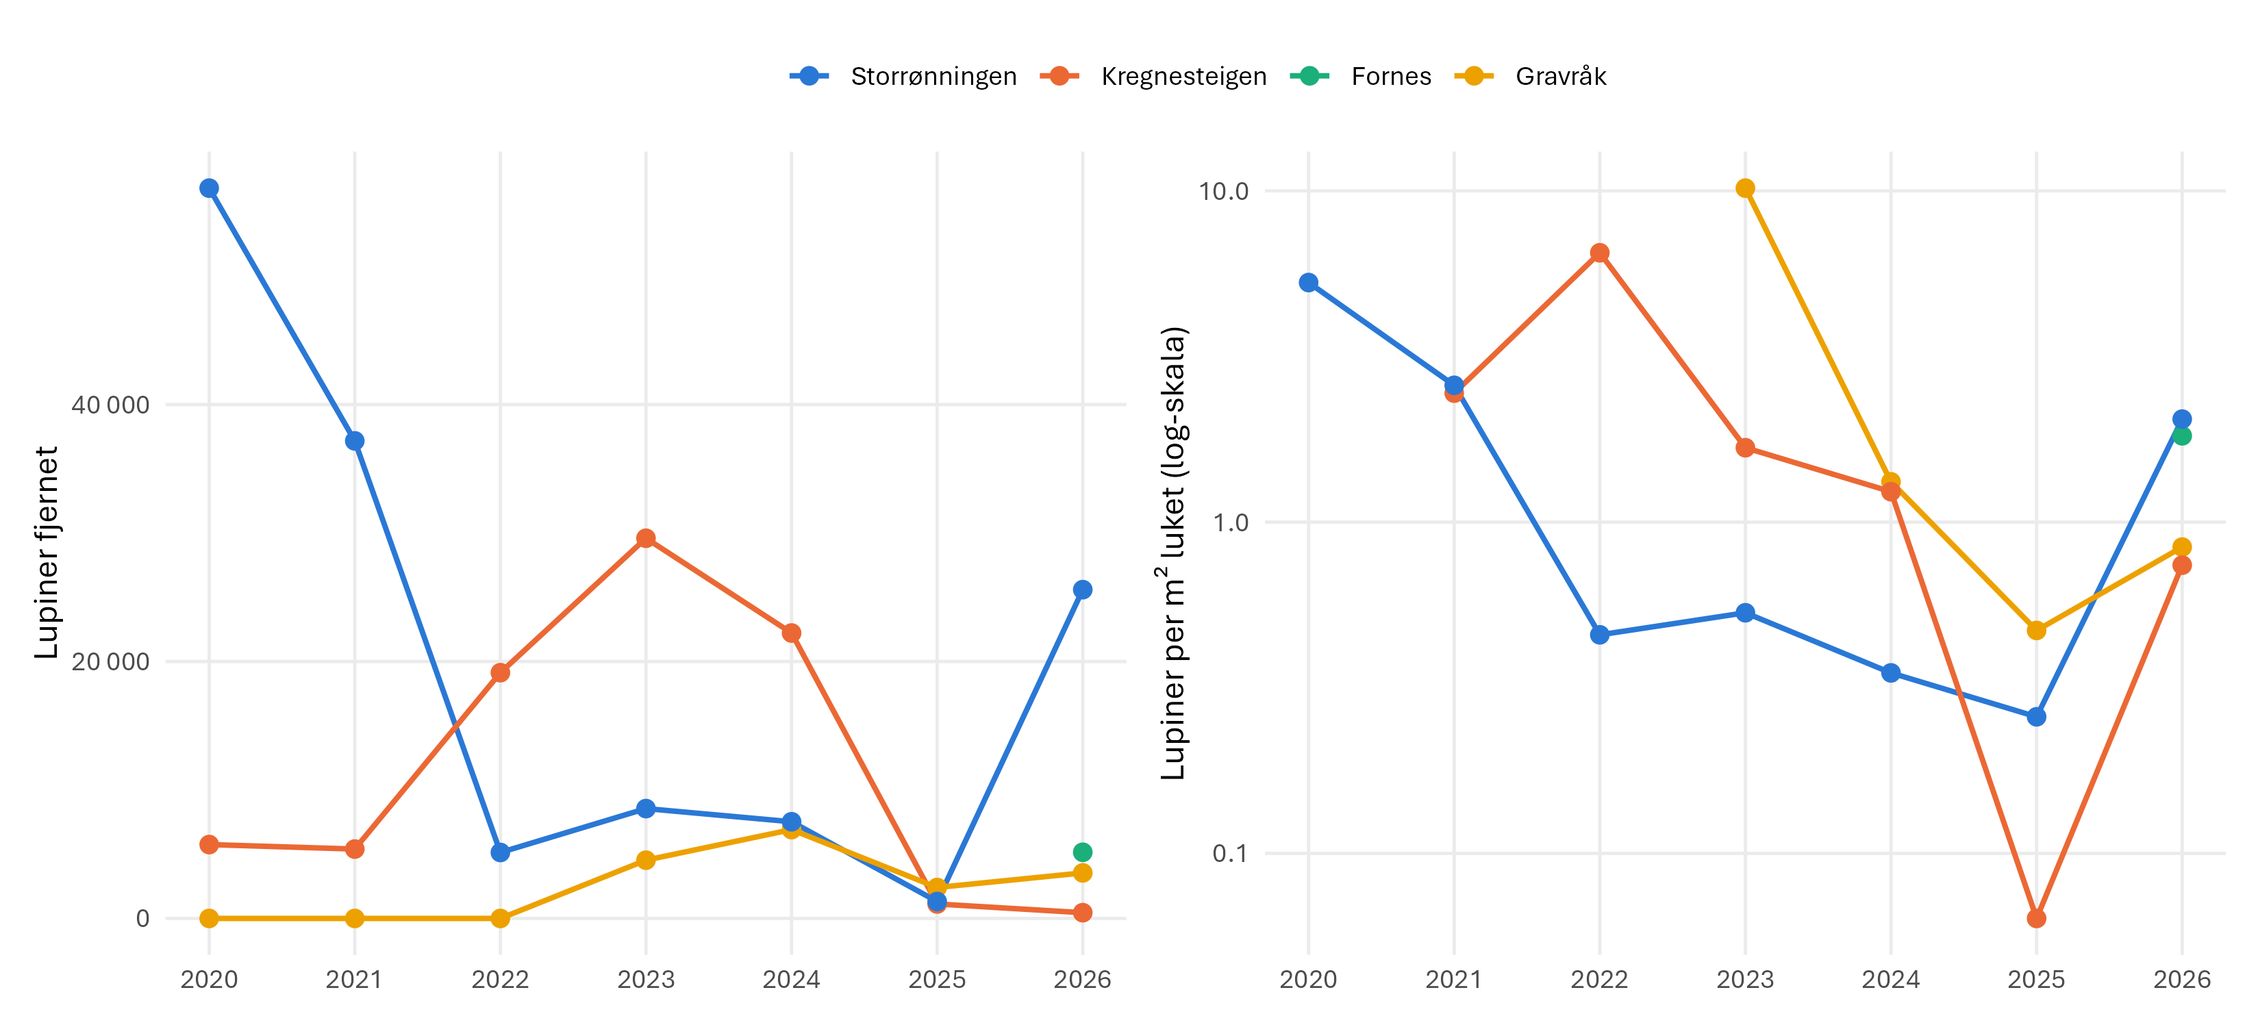
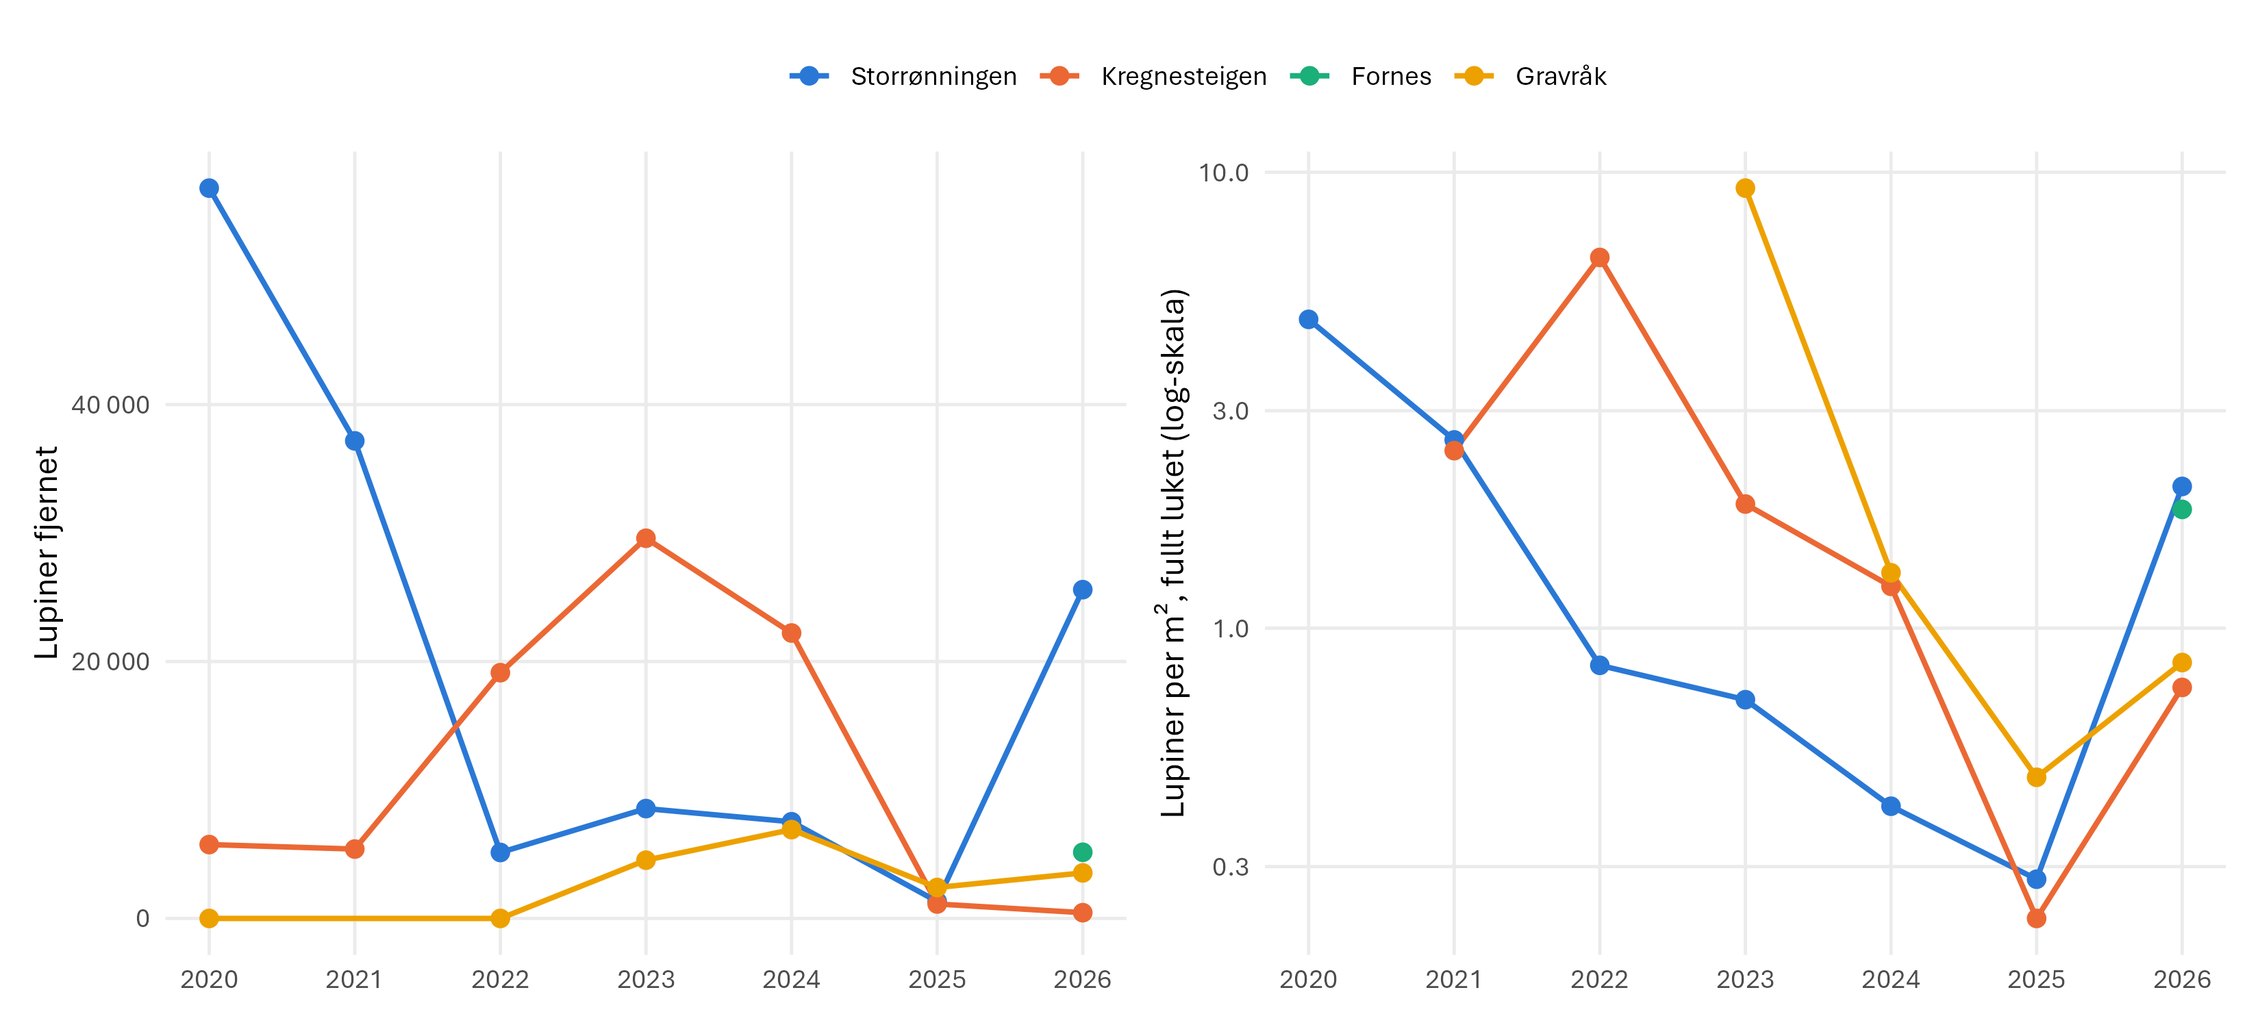
Elvesandjeger: lupin analysis based on fully cleared polygons only
MidNat confirmed that the lupin counts are plants removed, and that partial
clearing removes only the larger plants, so partly cleared polygons do not
show how many lupins were present. Section 5, 6.2 (table, figure, text), the
per-site lupin density in 3.2, 7.1 and 7.2 updated accordingly. Gravråk 2021
lupin count treated as missing. Seed bank paragraph and clearing-work
sentence added to 7.1; 2026 change to full-or-no clearing noted in 3.2.

diff --git a/Elvesandjeger/README.md b/Elvesandjeger/README.md
@@ -1,6 +1,6 @@
 # Elvesandjeger (*Cicindela maritima*)
 Megan Nowell
-2026-11-06
+2026-11-10
 
 - [Oppsummering](#oppsummering)
 - [English summary](#english-summary)
@@ -356,12 +356,16 @@ og alt plantemateriale samles i tette sekker og leveres til godkjent
 mottak for fremmede arter (Roos mfl. 2024; Solberg mfl. 2025). Ved
 delvis luking fjernes bare de større lupinene som kan sette frø i løpet
 av sesongen, og flere steder fjernes blomsterstander og frøbelger for å
-hindre frøspredning (Solberg mfl. 2025). Hver lokalitet er delt inn i
-kartfestede lukepolygoner, og MidNat registrerer for hvert polygon og år
-om det er luket (Ja), delvis luket (Delvis) eller ikke luket (Nei), hvor
-mange lupiner som ble fjernet, og når og hvordan det ble luket (Roos
-mfl. 2024). Follstadøya blir også luket, men har ikke overvåking av
-elvesandjeger og er ikke med her.
+hindre frøspredning (Solberg mfl. 2025). Hensikten med delvis luking var
+å gi polygonene et år med mindre forstyrrelse for elvesandjeger,
+samtidig som lupinene ikke fikk spre frø. Fra 2026 lukes polygonene
+enten fullt eller ikke i det hele tatt, for å begrense forstyrrelsen av
+larvene.Hver lokalitet er delt inn i kartfestede lukepolygoner, og
+MidNat registrerer for hvert polygon og år om det er luket (Ja), delvis
+luket (Delvis) eller ikke luket (Nei), hvor mange lupiner som ble
+fjernet, og når og hvordan det ble luket (Roos mfl. 2024). Follstadøya
+blir også luket, men har ikke overvåking av elvesandjeger og er ikke med
+her.
 
 <a href="#fig-foto-luking" class="quarto-xref">Figur 4</a> viser
 eksempler på lukepolygoner før og etter luking i 2026.
@@ -434,34 +438,38 @@ luket). Ulik skala på y-aksen.
 
 ![](img/fig-luking-lupiner-1.png)
 
-Figur 6: Antall lupiner fjernet (venstre) og lupiner fjernet per m²
-luket areal (høyre), per lokalitet og år. Fornes har lukepolygoner først
-fra 2026; Gravråk 2021 mangler antall.
+Figur 6: Antall lupiner fjernet (venstre) og lupintetthet i polygonene
+som ble fullt luket (høyre), per lokalitet og år. Ved delvis luking
+telles bare de større plantene som fjernes, så disse polygonene er ikke
+med i tettheten. Fornes har lukepolygoner først fra 2026; Gravråk 2021
+mangler antall.
 
 </div>
 
 <div id="tbl-luking">
 
 Tabell 2: Lupinluking per lokalitet og år: areal luket (m², Ja +
-Delvis), antall lupiner fjernet og lupiner per m² luket. – = ikke
-registrert. Kilde: lukedata fra Midtnorsk Naturundersøkelse AS.
+Delvis), antall lupiner fjernet og lupintetthet (lupiner per m²) i
+polygonene som ble fullt luket. – = ikke registrert eller ingen
+polygoner fullt luket. Kilde: lukedata fra Midtnorsk Naturundersøkelse
+AS.
 
 <div class="cell-output-display">
 
-| Lokalitet     | Mål              |   2020 |   2021 |   2022 |   2023 |   2024 |   2025 |   2026 |
-|:--------------|:-----------------|-------:|-------:|-------:|-------:|-------:|-------:|-------:|
-| Storrønningen | Areal luket (m²) | 10 751 | 14 363 | 11 238 | 16 056 | 21 465 |  5 101 | 12 507 |
-| Storrønningen | Lupiner fjernet  | 56 846 | 37 172 |  5 134 |  8 551 |  7 526 |  1 318 | 25 592 |
-| Storrønningen | Lupiner per m²   |   5,29 |   2,59 |   0,46 |   0,53 |   0,35 |   0,26 |   2,05 |
-| Kregnesteigen | Areal luket (m²) |      0 |  2 203 |  2 941 | 17 643 | 17 981 | 17 684 |    604 |
-| Kregnesteigen | Lupiner fjernet  |  5 750 |  5 400 | 19 130 | 29 593 | 22 217 |  1 125 |    448 |
-| Kregnesteigen | Lupiner per m²   |      – |   2,45 |   6,50 |   1,68 |   1,24 |   0,06 |   0,74 |
-| Fornes        | Areal luket (m²) |      0 |      0 |      0 |      0 |      0 |      0 |  2 827 |
-| Fornes        | Lupiner fjernet  |      – |      – |      – |      – |      – |      – |  5 150 |
-| Fornes        | Lupiner per m²   |      – |      – |      – |      – |      – |      – |   1,82 |
-| Gravråk       | Areal luket (m²) |      0 |  2 768 |      0 |    445 |  5 226 |  5 115 |  4 216 |
-| Gravråk       | Lupiner fjernet  |      0 |      0 |      0 |  4 535 |  6 915 |  2 409 |  3 545 |
-| Gravråk       | Lupiner per m²   |      – |      – |      – |  10,19 |   1,32 |   0,47 |   0,84 |
+| Lokalitet | Mål | 2020 | 2021 | 2022 | 2023 | 2024 | 2025 | 2026 |
+|:---|:---|---:|---:|---:|---:|---:|---:|---:|
+| Storrønningen | Areal luket (m²) | 10 751 | 14 363 | 11 238 | 16 056 | 21 465 | 5 101 | 12 507 |
+| Storrønningen | Lupiner fjernet | 56 846 | 37 172 | 5 134 | 8 551 | 7 526 | 1 318 | 25 592 |
+| Storrønningen | Lupiner per m², fullt luket | 4,76 | 2,59 | 0,83 | 0,70 | 0,41 | 0,28 | 2,05 |
+| Kregnesteigen | Areal luket (m²) | 0 | 2 203 | 2 941 | 17 643 | 17 981 | 17 684 | 604 |
+| Kregnesteigen | Lupiner fjernet | 5 750 | 5 400 | 19 130 | 29 593 | 22 217 | 1 125 | 448 |
+| Kregnesteigen | Lupiner per m², fullt luket | – | 2,45 | 6,50 | 1,87 | 1,24 | 0,23 | 0,74 |
+| Fornes | Areal luket (m²) | 0 | 0 | 0 | 0 | 0 | 0 | 2 827 |
+| Fornes | Lupiner fjernet | – | – | – | – | – | – | 5 150 |
+| Fornes | Lupiner per m², fullt luket | – | – | – | – | – | – | 1,82 |
+| Gravråk | Areal luket (m²) | 0 | 2 768 | 0 | 445 | 5 226 | 5 115 | 4 216 |
+| Gravråk | Lupiner fjernet | 0 | – | 0 | 4 535 | 6 915 | 2 409 | 3 545 |
+| Gravråk | Lupiner per m², fullt luket | – | – | – | 9,23 | 1,32 | 0,47 | 0,84 |
 
 </div>
 
@@ -552,13 +560,17 @@ undersøkt, er ikke helt likt alle år
 og tidsseriene vises derfor per besøksmåned.
 
 **Effekt av luking på lupin.** Dataene fra Midtnorsk Naturundersøkelse
-inneholder antall lupiner i hvert lukepolygon, registrert samtidig med
-lukingen, og om polygonet ble fullt luket, delvis luket eller ikke
-luket. I vår analyse regner vi om antallet til lupintetthet (lupiner per
-m² av polygonarealet), slik at polygoner av ulik størrelse kan
-sammenlignes, og deler polygonene inn etter hvordan de ble luket årene
-før: fullt luket året før, delvis luket året før, ett år uten luking, to
-år eller mer uten luking, eller luket for første gang. Forskjellene i
+inneholder for hvert lukepolygon og år om polygonet ble fullt luket,
+delvis luket eller ikke luket, og antallet lupiner som ble fjernet. Ved
+full luking fjernes alle lupinene, så antallet viser hvor mange lupiner
+som sto i polygonet. Ved delvis luking telles bare de større plantene
+som ble fjernet, og antallet sier derfor ikke hvor mange lupiner som sto
+der. Analysen bruker derfor bare polygoner som ble fullt luket i det
+aktuelle året. Antallet regnes om til lupintetthet (lupiner per m² av
+polygonarealet), slik at polygoner av ulik størrelse kan sammenlignes,
+og polygonene deles inn etter hvordan de ble luket årene før: fullt
+luket året før, delvis luket året før, ett år uten luking, to år eller
+mer uten luking, eller luket for første gang. Forskjellene i
 lupintetthet mellom disse gruppene testes med en negativ binomial GLMM
 (`glmmTMB`, nbinom2) på antall lupiner, med polygonarealet som offset,
 lukehistorikk, år og lokalitet som faste effekter og et tilfeldig
@@ -711,36 +723,41 @@ juni, juli og august. Tallene over søylene er totalt antall larver.
 
 ### 6.2 Effekt av luking på lupin
 
-**Lukehistorikk.** Lupintettheten i et polygon avhenger av hvordan det
-er luket årene før
+**Lukehistorikk.** Lupintettheten i polygonene som ble fullt luket,
+avhenger av hvordan de var luket årene før
 (<a href="#tbl-lupin-luking" class="quarto-xref">Tabell 4</a>,
 <a href="#fig-lupin-luking" class="quarto-xref">Figur 10</a>). I
-polygoner som ble fullt luket året før, var det 0,8 lupiner per m².
-Polygoner som sto ett år uten luking, hadde 2,1 lupiner per m² (RR 2,51
-mot fullt luket året før, p = 0,016), omtrent like mange som polygoner
-som ble luket for første gang (2,0 per m², RR 2,40, p = 0,003).
-Polygoner som hadde stått to år eller mer uten luking, hadde 7,8 lupiner
-per m² (RR 9,37, p \< 0,001). Allerede etter ett år uten luking er
-lupintettheten altså tilbake på nivået fra før lukingen startet, og
-etter to år er den mye høyere.
+polygoner som også ble fullt luket året før, var det 1,0 lupin per m².
+Etter to år eller mer uten luking hadde tettheten økt kraftig, til 5,9
+lupiner per m² (RR 5,81, p \< 0,001), og polygoner som ble luket for
+første gang, hadde 2,5 lupiner per m² (RR 2,43, p \< 0,001). Polygoner
+som sto ett år uten luking, hadde 0,7 lupin per m², og var ikke
+signifikant forskjellige fra polygoner som ble fullt luket året før (RR
+0,68, p = 0,29). Nesten alle disse (30 av 33) var fullt luket året før
+pausen. Ett år uten luking etter full luking ga altså ikke flere
+lupiner, men etter to år uten luking var tettheten nesten seks ganger så
+høy.
 
-**Delvis luking.** Polygoner som ble delvis luket året før, hadde 4,6
-lupiner per m², over fem ganger så mange som polygoner som ble fullt
-luket (RR 5,51, p \< 0,001). Delvis luking holder altså ikke lupinen
-nede på samme måte som full luking.
+**Delvis luking.** Polygoner som ble delvis luket året før, hadde 1,3
+lupiner per m² da de ble fullt luket, og var ikke signifikant
+forskjellige fra polygoner som ble fullt luket året før (RR 1,27, p =
+0,52). Når de større plantene ble fjernet før de satte frø, holdt delvis
+luking lupinen nede omtrent like godt som full luking fram til neste
+luking.
 
-**Utvikling over år.** Lupintettheten i de lukede polygonene gikk ned
-fra 4,8 per m² i 2020 til 0,82 i 2024 og 0,17 i 2025, men økte igjen til
-1,7 per m² i 2026
+**Utvikling over år.** Lupintettheten i polygonene som ble fullt luket,
+gikk ned fra 4,8 per m² i 2020 til 0,88 i 2024 og 0,35 i 2025, men økte
+igjen til 1,7 per m² i 2026
 (<a href="#tbl-luking" class="quarto-xref">Tabell 2</a>). Den lave
 tettheten i 2025 kom etter flere år med mye luking: i 2024 ble 44 700 m²
-luket, det meste fullt. I 2025 ble bare 11 900 m² fullt luket, og
-økningen i 2026 kom særlig fra polygoner på Storrønningen som ikke var
-luket i 2024 og 2025.
+luket, det meste fullt. I 2025 ble bare 11 900 m² fullt luket og 16 000
+m² delvis luket. Økningen i 2026 kom særlig fra tolv polygoner på
+Storrønningen som ikke var luket i 2024 og 2025. De hadde 3,5 lupiner
+per m², og nesten halvparten av lupinene som ble fjernet i 2026.
 
 <div id="tbl-lupin-luking">
 
-Tabell 4: Lupintetthet (lupiner per m²) i lukede polygoner etter
+Tabell 4: Lupintetthet (lupiner per m²) i fullt lukede polygoner etter
 lukehistorikk. NB GLMM, n = polygon-år. RR = rateratio; KI95 = 95 %
 konfidensintervall. Signifikansnivå: \* p \< 0,05; \*\* p \< 0,01;
 \*\*\* p \< 0,001.
@@ -749,37 +766,35 @@ konfidensintervall. Signifikansnivå: \* p \< 0,05; \*\* p \< 0,01;
 
 | Effekt | n | RR | KI95 | p |
 |:---|---:|---:|:---|:---|
-| Delvis luket året før (mot fullt luket året før) | 35 | 5.51 | 2.62–11.57 | \<0.001\*\*\* |
-| 1 år uten luking (mot fullt luket året før) | 34 | 2.51 | 1.19–5.31 | 0.016\* |
-| 2 år eller mer uten luking (mot fullt luket året før) | 17 | 9.37 | 3.64–24.10 | \<0.001\*\*\* |
-| Første gang luket (mot fullt luket året før) | 39 | 2.40 | 1.34–4.30 | 0.0032\*\* |
+| Delvis luket året før (mot fullt luket året før) | 35 | 1.27 | 0.62–2.62 | 0.52 |
+| 1 år uten luking (mot fullt luket året før) | 33 | 0.68 | 0.33–1.38 | 0.29 |
+| 2 år eller mer uten luking (mot fullt luket året før) | 15 | 5.81 | 2.52–13.42 | \<0.001\*\*\* |
+| Første gang luket (mot fullt luket året før) | 35 | 2.43 | 1.49–3.96 | \<0.001\*\*\* |
 
 </div>
 
 </div>
 
 <a href="#fig-lupin-luking" class="quarto-xref">Figur 10</a> viser
-lupintettheten i hvert lukepolygon og år (punkter), gruppert etter
-hvordan polygonet var luket årene før, og det modellerte gjennomsnittet
-med 95 % konfidensintervall (svart). Y-aksen er logaritmisk, slik at
-hver linje betyr ti ganger så mange lupiner. Spredningen innen hver
-gruppe er stor, fordi polygonene er ulike og har ulik lukehistorikk
-lenger tilbake. Polygoner som ble fullt luket året før, skiller seg
-likevel tydelig ut: gjennomsnittet er under én lupin per m², og mange av
-polygonene hadde under 0,1 lupin per m², altså nesten ingen lupiner.
-Etter ett år uten luking og i polygoner som ble luket for første gang,
-er gjennomsnittet rundt to lupiner per m². Etter delvis luking og etter
-to år eller mer uten luking er det høyest, og her er det få polygoner
-med under 0,1 lupin per m². Intervallene er brede for disse gruppene
-fordi det er få polygon-år (35 og 17).
+lupintettheten i hvert fullt lukede polygon og år (punkter), gruppert
+etter hvordan polygonet var luket årene før, og det modellerte
+gjennomsnittet med 95 % konfidensintervall (svart). Y-aksen er
+logaritmisk, slik at hver linje betyr ti ganger så mange lupiner.
+Spredningen innen hver gruppe er stor, fordi polygonene er ulike og har
+ulik lukehistorikk lenger tilbake. Etter full luking, delvis luking og
+ett år uten luking er gjennomsnittet rundt én lupin per m² eller lavere.
+Polygoner som ble luket for første gang, og særlig polygoner som ikke
+var luket på to år eller mer, skiller seg ut med høyere tetthet.
+Intervallet er bredt for polygonene som ikke var luket på to år eller
+mer, fordi det bare er 15 polygon-år.
 
 <div id="fig-lupin-luking">
 
 ![](img/fig-lupin-luking-1.png)
 
-Figur 10: Lupintetthet i lukede polygoner etter lukehistorikk (punkter =
-polygon-år, +0,01 for å vise nuller; svart = modellert gjennomsnitt ± 95
-% KI).
+Figur 10: Lupintetthet i fullt lukede polygoner etter lukehistorikk
+(punkter = polygon-år, +0,01 for å vise nuller; svart = modellert
+gjennomsnitt ± 95 % KI).
 
 </div>
 
@@ -1190,15 +1205,30 @@ Manglende søyle = ikke undersøkt i august. Ulik skala på y-aksen.
 <!-- Teksten er skrevet for dataene til og med 2026. Oppdater tallene og tolkningen manuelt hvert år. -->
 
 **Lukingen holder lupinbestanden nede, men bare så lenge den gjentas.**
-Allerede etter ett år uten luking var lupintettheten tilbake på nivået
-fra før lukingen startet, og etter to år eller mer uten luking var den
-ni ganger så høy som i polygoner som ble fullt luket året før. Polygoner
-som bare ble delvis luket, hadde fem ganger så mange lupiner året etter
-som polygoner som ble fullt luket. I 2025 ble det fullt luket mye mindre
-enn året før, og i 2026 var lupintettheten i de lukede polygonene ti
+I polygoner som ble luket hvert år, holdt lupintettheten seg lav. Ett år
+uten luking etter full luking ga ikke flere lupiner, men etter to år
+eller mer uten luking var tettheten nesten seks ganger så høy som i
+polygoner som ble fullt luket året før. Delvis luking, der de større
+plantene ble fjernet før de satte frø, holdt lupinen nede omtrent like
+godt som full luking. I 2025 ble det fullt luket mye mindre enn året
+før, og i 2026 var lupintettheten i de fullt lukede polygonene fem
 ganger så høy som i 2025, særlig i polygoner på Storrønningen som ikke
 var luket på to år. Lupinen kommer altså raskt tilbake når lukingen
-stopper opp, og lukingen må gjentas hvert år.
+stopper opp.
+
+**Frøbanken.** Tellingene viser bare lupinene som står i polygonene
+hvert år, ikke frøbanken. Hagelupin danner en langvarig frøbank, og
+frøene kan ligge i jorda i mer enn 50 år uten å miste spireevnen
+(Fremstad 2012). Når blomsterstander og frøbelger fjernes, både ved full
+og delvis luking, kommer det færre nye frø i jorda, og over tid bør
+frøbanken bli mindre, selv om det fortsatt kommer opp lupiner i
+polygonene de nærmeste årene. Frøbanken fylles likevel på av lupiner som
+står igjen i og rundt lukeområdene, og trolig også av frø som føres med
+elva fra bestander lenger opp (Hanssen 2023). Effekten av lukingen kan
+derfor ikke vurderes bare ut fra antallet lupiner fra ett år til det
+neste. Luking år etter år er nødvendig, og arbeidet som Midtnorsk
+Naturundersøkelse, Melhus kommune, Øya videregående skole og andre gjør
+langs Gaula, er viktig for å holde lupininvasjonen under kontroll.
 
 **Bestanden tok seg opp i 2026 etter et svært dårlig 2025.** 2025 var
 det dårligste året siden overvåkingen ble etablert, men i 2026 økte
@@ -1257,25 +1287,24 @@ derfor mindre om bestanden enn antallet larver.
 
 ### 7.2 Anbefaling for videreføring
 
-**Tiltak.** Vi anbefaler full luking av hagelupin i alle lukepolygonene
-hvert år. Allerede ett år uten luking gir like mange lupiner som før
-lukingen startet, og etter to år uten luking er det mange flere. Et
-opphold i lukingen kan derfor sette arbeidet flere år tilbake.
+**Tiltak.** Vi anbefaler luking av hagelupin i alle lukepolygonene hvert
+år. Ett år uten luking etter full luking ga ikke flere lupiner, men
+etter to år uten luking var tettheten nesten seks ganger så høy. Et
+lengre opphold i lukingen kan derfor sette arbeidet flere år tilbake.
 Polygonene som ikke er luket på to år eller mer, bør prioriteres, og på
 Kregnesteigen, der det bare ble luket 604 m² i 2026, bør hele
-lokaliteten lukes fullt i 2027. Delvis luking kan være skånsommere for
-elvesandjeger fordi den forstyrrer sanden og larvehullene mindre, men i
-dag gir den over fem ganger så mange lupiner året etter som full luking.
-Delvis luking bør derfor bare brukes der det er nødvendig av hensyn til
-larvehullene, og den må gjøres så grundig at lupinen ikke får sette frø.
-Frøstandene bør fjernes før de modner. Kjerneområdene med stabile
-bestander av elvesandjeger fungerer som kildebestander og bør
-prioriteres, og områdene rundt bør holdes åpne som buffersoner som arten
-kan flytte til etter flom og styrtregn (Roos mfl. 2025). Den restaurerte
-flaten på Kregnesteigen, der store deler av bestanden har holdt til
-siden 2023, var i ferd med å gro igjen i 2025 og bør lukes på nytt (Roos
-mfl. 2025). Utviklingen på Gravråk etter restaureringen med gravemaskin
-i 2025 bør følges.
+lokaliteten lukes fullt i 2027. Ett år uten luking etter full luking ga
+ikke flere lupiner, så praksisen fra 2026, der polygonene enten lukes
+fullt eller får stå i fred, kan begrense forstyrrelsen av larvene uten
+at lupinen tar seg opp igjen, så lenge ingen polygoner står mer enn ett
+år uten luking. Frøstandene bør fjernes før de modner. Kjerneområdene
+med stabile bestander av elvesandjeger fungerer som kildebestander og
+bør prioriteres, og områdene rundt bør holdes åpne som buffersoner som
+arten kan flytte til etter flom og styrtregn (Roos mfl. 2025). Den
+restaurerte flaten på Kregnesteigen, der store deler av bestanden har
+holdt til siden 2023, var i ferd med å gro igjen i 2025 og bør lukes på
+nytt (Roos mfl. 2025). Utviklingen på Gravråk etter restaureringen med
+gravemaskin i 2025 bør følges.
 
 Lukingen holder eksisterende leveområder åpne, men nye sand- og
 siltflater skapes bare av elva selv. Forvaltningen bør derfor også ta
@@ -1322,6 +1351,12 @@ Evju, Marianne, Ruben E. Roos, Anders Endrestøl, Megan Nowell, Oddvar
 Hanssen, og Ellen E. Ombler. 2022. *Effektovervåking av trua arter og
 naturtyper 2022*. NINA Rapport No. 2196. Norsk institutt for
 naturforskning. <https://brage.nina.no/nina-xmlui/handle/11250/3035335>.
+
+</div>
+
+<div id="ref-fremstad_2012" class="csl-entry">
+
+Fremstad, Eli. 2012. *Hagelupin *Lupinus polyphyllus**. Artsdatabanken.
 
 </div>
 
